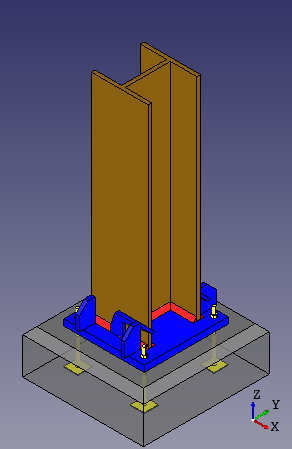
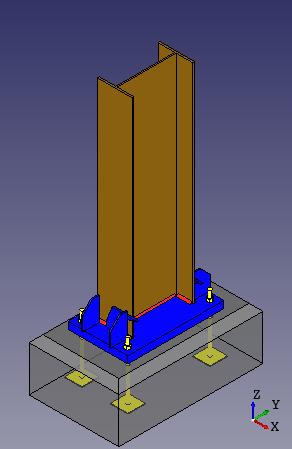
add loop for calculating number of bolts required to resist tension

Changed region(s): [[0.0616, 0.0935, 0.9247, 0.9978]]

diff --git a/design_type/connection/base_plate_connection.py b/design_type/connection/base_plate_connection.py
@@ -211,7 +211,7 @@ class BasePlateConnection(MomentConnection, IS800_2007, IS_5624_1993, IS1367_Par
         self.anchor_capacity = 0.0
         self.combined_capacity_anchor = 0.0
 
-        self.gusseted_bp_case = ''
+        self.moment_bp_case = ''
 
         self.length_available_total = 0.0
         self.effective_length_flange = 0.0
@@ -1371,10 +1371,10 @@ class BasePlateConnection(MomentConnection, IS800_2007, IS_5624_1993, IS1367_Par
         Returns:
         """
         # select anchor bolt diameter [Reference: based on design experience, field conditions  and sample calculations]
-        # the following list of diameters are neglected due its practical non acceptance/unavailability - 'M8', 'M10', 'M12', 'M16'
+        # the following list of anchor diameters are neglected due its practical non acceptance/unavailability - 'M8', 'M10', 'M12', 'M16'
         # M20 and M24 are the preferred choices for the design
 
-        self.anchor_dia = self.anchor_dia + ['M20', 'M24']  # adding M20 and M24 diameters if the list passed does not include them
+        # self.anchor_dia = self.anchor_dia
         sort_bolt = filter(lambda x: 'M20' <= x <= self.anchor_dia[-1], self.anchor_dia)
 
         for i in sort_bolt:
@@ -1397,7 +1397,7 @@ class BasePlateConnection(MomentConnection, IS800_2007, IS_5624_1993, IS1367_Par
         self.anchor_fu_fy = self.get_bolt_fu_fy(self.anchor_grade)  # returns a list with strength values - [bolt_fu, bolt_fy]
 
         # TODO add condition for number of anchor bolts depending on col depth and force
-        # number of anchor bolts
+        # number of anchor bolts outside the column flange
         self.anchor_nos_provided = 4
 
         # perform detailing checks
@@ -1405,7 +1405,19 @@ class BasePlateConnection(MomentConnection, IS800_2007, IS_5624_1993, IS1367_Par
 
         # end distance [Reference: Clause 10.2.4.2 and 10.2.4.3, IS 800:2007]
         self.end_distance = self.cl_10_2_4_2_min_edge_end_dist(self.anchor_dia_provided, self.dp_anchor_hole, self.dp_detail_edge_type)
-        self.end_distance = round_up(self.end_distance, 5) + 15  # mm, adding 15 mm extra
+        self.end_distance = round_up(1.5 * self.end_distance, 5)  # mm, adding 50% extra to end distance to incorporate weld etc.
+
+        # If the shear force acting along any axis of the column is large (braced frames or buildings designed for seismic forces, heavy winds etc.),
+        # the minimum recommended end/edge distance is six times the anchor diameter (min_end_distance = 6 * anchor_diameter).
+        # This is to prevent the side bursting/face break-out of the concrete [Reference: AISC Design Guide 1, section 3.2.2, page 22]
+        if self.load_shear_major or self.load_shear_minor > 0:
+            min_end_distance = 6 * self.anchor_dia_provided  # TODO: check if shear is large enough
+            min_end_distance = round_up(min_end_distance, 5)  # mm
+
+            self.end_distance = max(self.end_distance, min_end_distance)
+            # TODO: give suitable log messages
+        else:
+            pass
 
         # TODO: add max end, edge distance check after the plate thk check
         # self.end_distance_max = self.cl_10_2_4_3_max_edge_dist([self.plate_thk], self.dp_bp_fy, self.dp_detail_is_corrosive)
@@ -1472,8 +1484,9 @@ class BasePlateConnection(MomentConnection, IS800_2007, IS_5624_1993, IS1367_Par
             else:
                 pass
 
+            # updating the length and the width by incorporating the vaue of projection
             self.bp_length_provided = self.column_D + 2 * self.projection + 2 * self.end_distance  # mm
-            self.bp_width_provided = self.column_bf + 2 * self.projection + 2 * self.end_distance  # mm
+            self.bp_width_provided = self.column_bf + 2 * self.projection + 2 * self.edge_distance  # mm
 
             # check for the provided area against the minimum required area
             self.bp_area_provided = self.bp_length_provided * self.bp_width_provided  # mm^2
@@ -1483,7 +1496,7 @@ class BasePlateConnection(MomentConnection, IS800_2007, IS_5624_1993, IS1367_Par
 
             n = 1
             while self.bp_area_provided < self.min_area_req:
-                bp_update_dimensions = [bp_dimensions[-2], [-1]]
+                bp_update_dimensions = [bp_dimensions[-2], bp_dimensions[-1]]
 
                 for i in bp_update_dimensions:
                     i += 25
@@ -1504,7 +1517,7 @@ class BasePlateConnection(MomentConnection, IS800_2007, IS_5624_1993, IS1367_Par
             # thickness of the base plate [Reference: Clause 7.4.3.1, IS 800:2007]
             self.plate_thk = self.projection * (math.sqrt((2.5 * self.w * self.gamma_m0) / self.dp_bp_fy))  # mm
 
-            # number of anchor bolts
+            # number of anchor bolts provided outside the column flange
             self.anchor_nos_provided = 4
 
         elif self.connectivity == 'Moment Base Plate':
@@ -1517,7 +1530,7 @@ class BasePlateConnection(MomentConnection, IS800_2007, IS_5624_1993, IS1367_Par
 
             if self.eccentricity_zz <= self.bp_length_min / 6:  # Case 1
 
-                self.gusseted_bp_case = 'Case1'
+                self.moment_bp_case = 'Case1'
 
                 # fixing length and width of the base plate
                 width_min = 2 * self.load_axial_compression / (self.bp_length_min * self.bearing_strength_concrete)  # mm
@@ -1553,12 +1566,10 @@ class BasePlateConnection(MomentConnection, IS800_2007, IS_5624_1993, IS1367_Par
 
                 self.plate_thk = math.sqrt((self.critical_M_xx * self.gamma_m0 * 6) / (1.5 * self.dp_bp_fy))  # mm
 
-                self.tension_capacity_anchor = 0
-
-                self.anchor_nos_provided = 4
+                self.tension_demand_anchor = 0  # there will be no tension acting on the anchor bolts in this case
 
             else:  # Case 2 and Case 3
-                self.gusseted_bp_case = 'Case2&3'
+                self.moment_bp_case = 'Case2&3'
 
                 # fixing length and width of the base plate
                 self.bp_length_provided = self.bp_length_min
@@ -1590,23 +1601,6 @@ class BasePlateConnection(MomentConnection, IS800_2007, IS_5624_1993, IS1367_Par
                                              ((self.bp_length_provided / 2) + self.f - self.y)  # N
                 self.tension_demand_anchor = round(self.tension_demand_anchor / 1000, 2)  # kN
 
-                self.tension_capacity_anchor = self.cl_10_3_5_bearing_bolt_tension_resistance(self.anchor_fu_fy[0], self.anchor_fu_fy[1],
-                                                                                              self.anchor_area[0], self.anchor_area[1],
-                                                                                              safety_factor_parameter=self.dp_weld_fab)  # N
-                self.tension_capacity_anchor = round(self.tension_capacity_anchor / 1000, 2)  # kN
-
-                # design number of anchor bolts required to resist tension
-                # Assumption: The minimum number of anchor bolts is 2, for stability purpose
-                self.tension_bolts_req = max(self.tension_demand_anchor / self.tension_capacity_anchor, 2)
-
-                if self.tension_bolts_req > 3:
-                    self.safe = False
-                    # TODO: Add log messages or update the design with more bolts
-                else:
-                    pass
-
-                self.anchor_nos_provided = 2 * self.tension_bolts_req
-
                 # computing the actual bending stress at the compression side
                 # TODO: complete this check
                 # self.flange_force_axial = self.dp_bp_fy * (self.column_bf * self.column_tf)  # N, load transferred by the flange
@@ -1632,6 +1626,48 @@ class BasePlateConnection(MomentConnection, IS800_2007, IS_5624_1993, IS1367_Par
                 # Assumption: Z_e of the plate is = b*tp^2 / 6, where b = 1 for a cantilever strip of unit dimension
 
                 self.plate_thk = math.sqrt((self.critical_M_xx * self.gamma_m0 * 6) / (1.5 * self.dp_bp_fy * self.bp_width_provided))  # mm
+
+            # design of the anchor bolt(s) required to resist tension due to bending moment only
+            self.tension_capacity_anchor = self.cl_10_3_5_bearing_bolt_tension_resistance(self.anchor_fu_fy[0], self.anchor_fu_fy[1],
+                                                                                          self.anchor_area[0], self.anchor_area[1],
+                                                                                          safety_factor_parameter=self.dp_weld_fab)  # N
+            self.tension_capacity_anchor = round(self.tension_capacity_anchor / 1000, 2)  # kN
+
+            # design number of anchor bolts required to resist tension
+            # Assumption: The minimum number of anchor bolts is 2, for stability purpose.
+            # self.tension_bolts_req = max(self.tension_demand_anchor / self.tension_capacity_anchor, 2)
+            self.tension_bolts_req = 5
+
+            # if the number of bolts required to resist tension exceeds 2 in number, then the loop will check
+            # for a higher diameter of bolt from the given list of anchor diameters by the user.
+            n = 1
+            while self.tension_bolts_req > 3:  # the maximum number of bolts that can be accommodated is 3
+                tension_bolts_list = self.anchor_dia[n - 1:]
+
+                for i in tension_bolts_list:
+                    self.anchor_dia_tension = i
+                    break
+
+                self.anchor_area = self.bolt_area(self.table1(self.anchor_dia_tension)[0])
+                self.tension_capacity_anchor = self.cl_10_3_5_bearing_bolt_tension_resistance(self.anchor_fu_fy[0], self.anchor_fu_fy[1],
+                                                                                              self.anchor_area[0], self.anchor_area[1],
+                                                                                              safety_factor_parameter=self.dp_weld_fab)  # N
+                self.tension_capacity_anchor = round(self.tension_capacity_anchor / 1000, 2)  # kN
+
+                self.tension_bolts_req = max(self.tension_demand_anchor / self.tension_capacity_anchor, 2)
+                n += 1
+
+                self.anchor_dia_tension = self.table1(i)[0]
+
+                if n > len(self.anchor_dia):
+                    self.safe = False
+                    # TODO: give log errors
+                    logger.error("Cannot compute anchor bolt for resisting the uplift force")
+
+            if self.moment_bp_case == 'Case1':
+                self.anchor_nos_provided = self.anchor_nos_provided
+            else:
+                self.anchor_nos_provided = 2 * self.tension_bolts_req
 
         elif self.connectivity == "Welded+Bolted Column Base":
             pass
@@ -1673,7 +1709,7 @@ class BasePlateConnection(MomentConnection, IS800_2007, IS_5624_1993, IS1367_Par
                 self.anchor_nos_tension = self.load_axial_tension / (self.anchor_tension_capa * 1000)  # number of bolts req to resist uplift
                 self.anchor_nos_tension = round_up(self.anchor_nos_tension, 2)
 
-                if self.anchor_nos_tension > 4:
+                if self.anchor_nos_tension > 2:
                     logger.error("Give error message")
                 else:
                     pass
@@ -1970,7 +2006,7 @@ class BasePlateConnection(MomentConnection, IS800_2007, IS_5624_1993, IS1367_Par
                     self.sigma_max_zz = self.w
                     self.sigma_xx = self.w
                 else:
-                    if self.gusseted_bp_case == 'Case1':
+                    if self.moment_bp_case == 'Case1':
                         self.sigma_max_zz = self.sigma_max_zz
                         self.sigma_xx = self.sigma_xx
                     else:

diff --git a/Common.py b/Common.py
@@ -419,7 +419,7 @@ KEY_DISP_DIA_ANCHOR = 'Diameter(mm)*'
 VALUES_DIA_ANCHOR = ['All', 'Customized']
 KEY_TYP_ANCHOR = 'Anchor Bolt.Type'
 KEY_DISP_TYP_ANCHOR = 'Type*'
-VALUES_TYP_ANCHOR = ['Select Type', 'IS 5624-Type A', 'IS 5624-Type B', 'L-Type', 'J-Type', 'End Plate Type']
+VALUES_TYP_ANCHOR = ['Select Type', 'End Plate Type', 'L-Type', 'J-Type', 'IS 5624-Type A', 'IS 5624-Type B']
 KEY_GRD_ANCHOR = 'Anchor Bolt.Grade'
 KEY_DISP_GRD_ANCHOR = 'Grade*'
 VALUES_GRD_ANCHOR = ['All', 'Customized']
